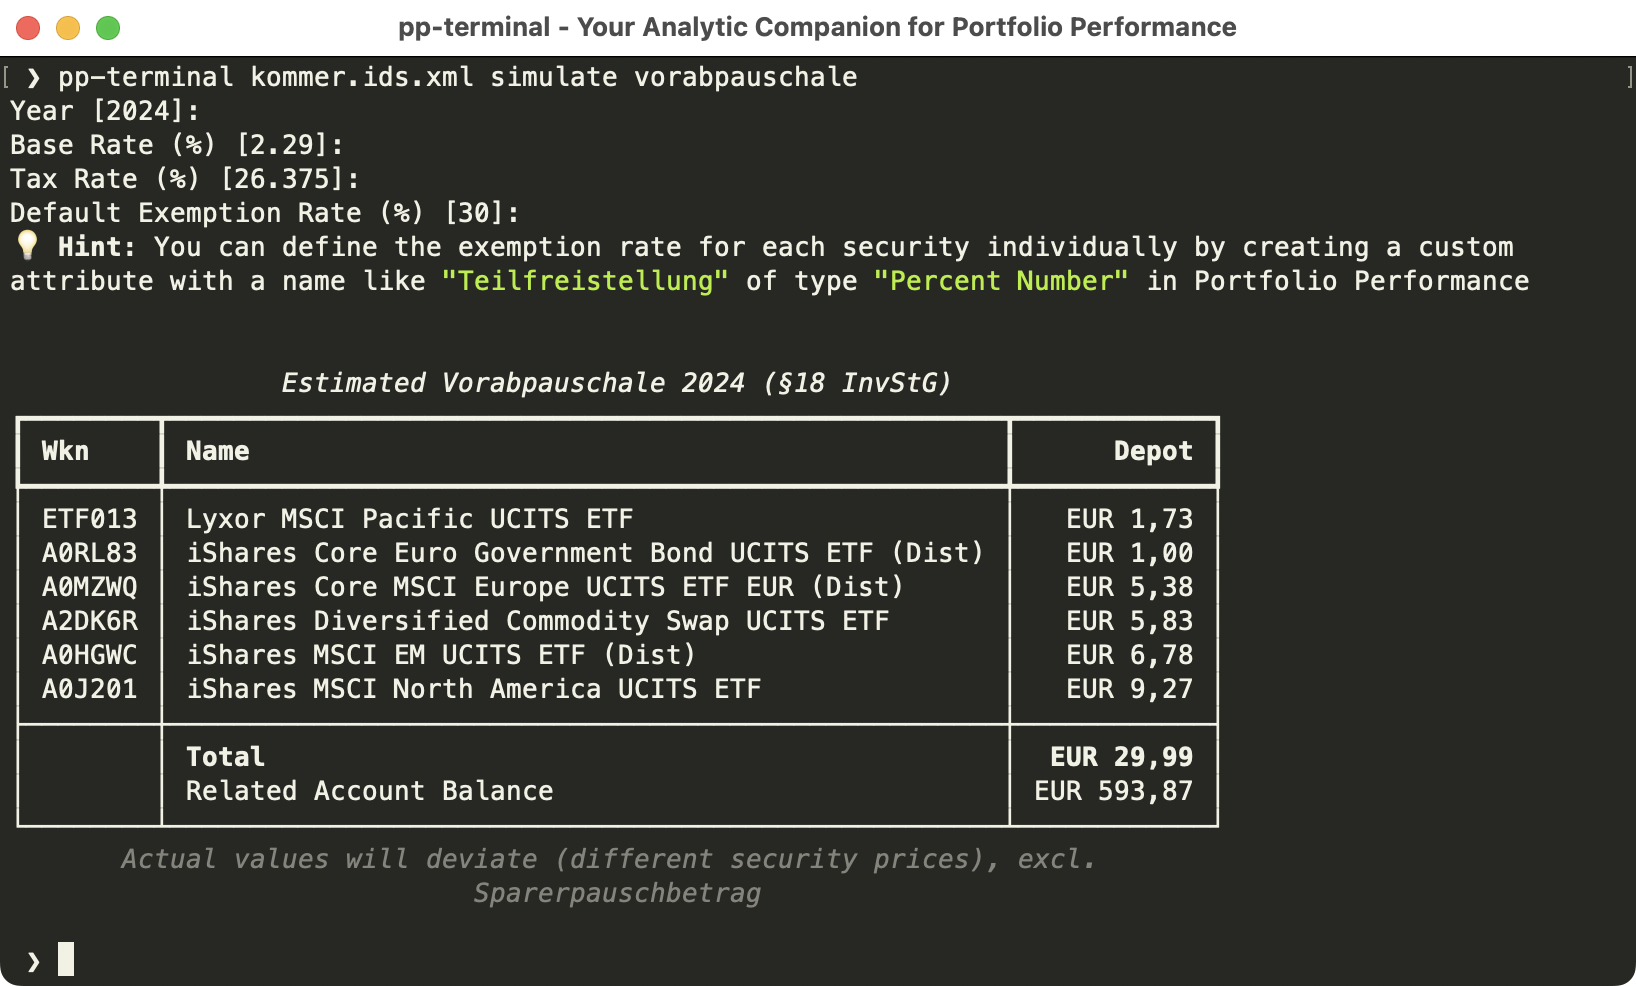
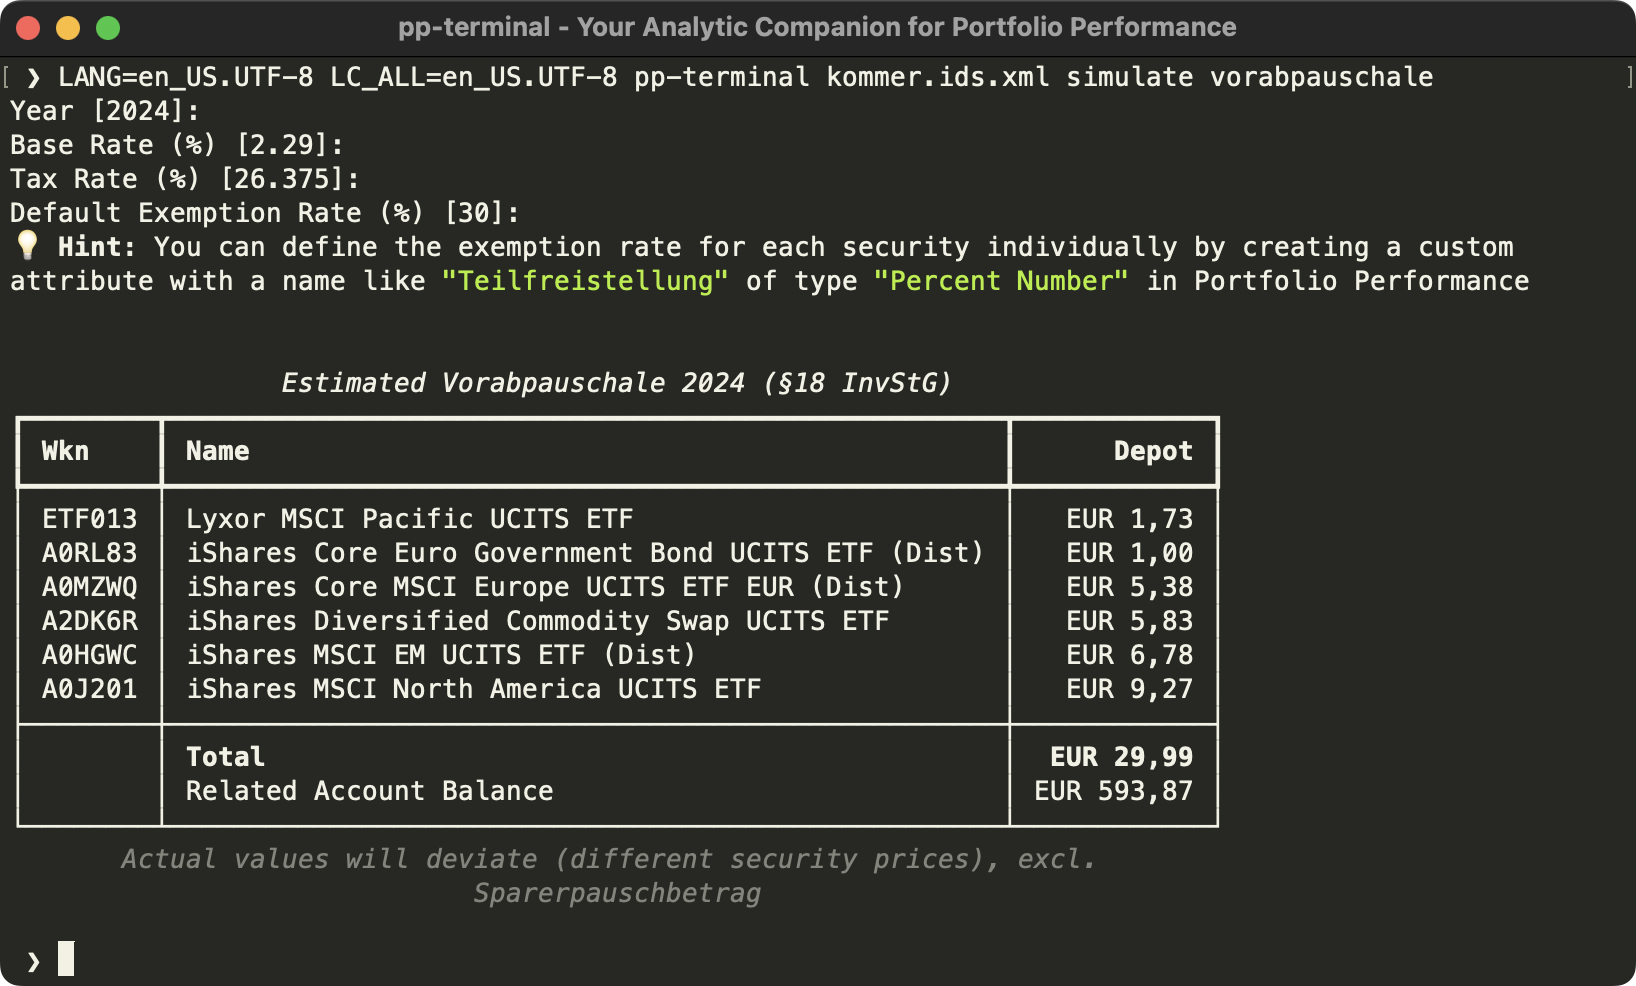
minor readme updates

Changed region(s): [[0.0, 0.0, 1.0, 0.0913]]

diff --git a/README.md b/README.md
@@ -5,15 +5,13 @@
 A CLI application for the great [Portfolio Performance app](https://www.portfolio-performance.info/) to run different 
 analysis on the portfolio data.
 
-For example, _pp-terminal_ can calculate the preliminary tax ("Vorabpauschale") for Germany:
+For example, _pp-terminal_ includes a command to calculate the preliminary tax ("Vorabpauschale") for Germany:
 
 ![Vorabpauschale command in pp-terminal](sample_vorabpauschale.png)
 
 _pp-terminal_ is a handy tool for all the nice-to-have features that won't make it into the official Portfolio Performance app.
 This can be because of country-dependant tax rules, complex Java implementation, highly individual requirements, 
-too many edge-cases, etc.  
-The application internally uses [ppxml2db](https://github.com/pfalcon/ppxml2db) to parse the Portfolio Performance XML 
-file and **does not modify** the original xml file.
+too many edge-cases, etc.
 
 By default, `pp-terminal` provides the following commands:
 
@@ -23,9 +21,11 @@ By default, `pp-terminal` provides the following commands:
 | `view depots`             | display a detailed table with the current values per depot                          |
 | `simulate vorabpauschale` | run a simulation for the German preliminary tax ("Vorabpauschale") on the portfolio |
 
-Code completion for commands and options is also available.
+Code completion for commands and options is also available.  
+The application **does not modify** the original Portfolio Performance file.
 
-In addition to the standard set, developers can easily [create their own commands](#user-content-create-your-own-command-️) and share them with the community.
+In addition to the standard set, developers can easily [create their own commands](#user-content-create-your-own-command-️) 
+and share them with the community.
 
 **Important Note:**  
 I am not a tax consultant. All results of this application are non-binding and without guarantee.
@@ -35,7 +35,7 @@ They may deviate from the actual values.
 
 - [pipx](https://pipx.pypa.io/latest/#install-pipx) to install the application (without having to worry about different Python runtimes)
 - Portfolio Performance version >= 0.70.3
-- XML file must be saved as "XML with ids"
+- Portfolio Performance file must be saved as "XML with id attributes"
 
 ## Installing
 
@@ -89,13 +89,14 @@ For more sophisticated samples take a look at the packaged commands in the `pp_t
 e.g. a good starting point is `view_accounts.py`.
 
 The app uses [Typer](https://typer.tiangolo.com/) for composing the commands and [Rich](https://github.com/Textualize/rich)
-for nice console outputs. The data is held in [panda dataframes](https://pandas.pydata.org/).
+for nice console outputs. The Portfolio Performance XML file is read with [ppxml2db](https://github.com/pfalcon/ppxml2db)  
+and efficiently held in [panda dataframes](https://pandas.pydata.org/).
 
 If your command makes sense for a broader audience, I'm happy to accept a pull request.
 
 ## Known Limitations 🚧
 
-- The script is still in beta version, so there might be Portfolio Performance XML files that are not compatible with and also public APIs can change
+- The script is still in beta version, so there might be Portfolio Performance files that are not compatible with and also public APIs can change
 - Only Euro currency is supported at the moment
 
 ## License